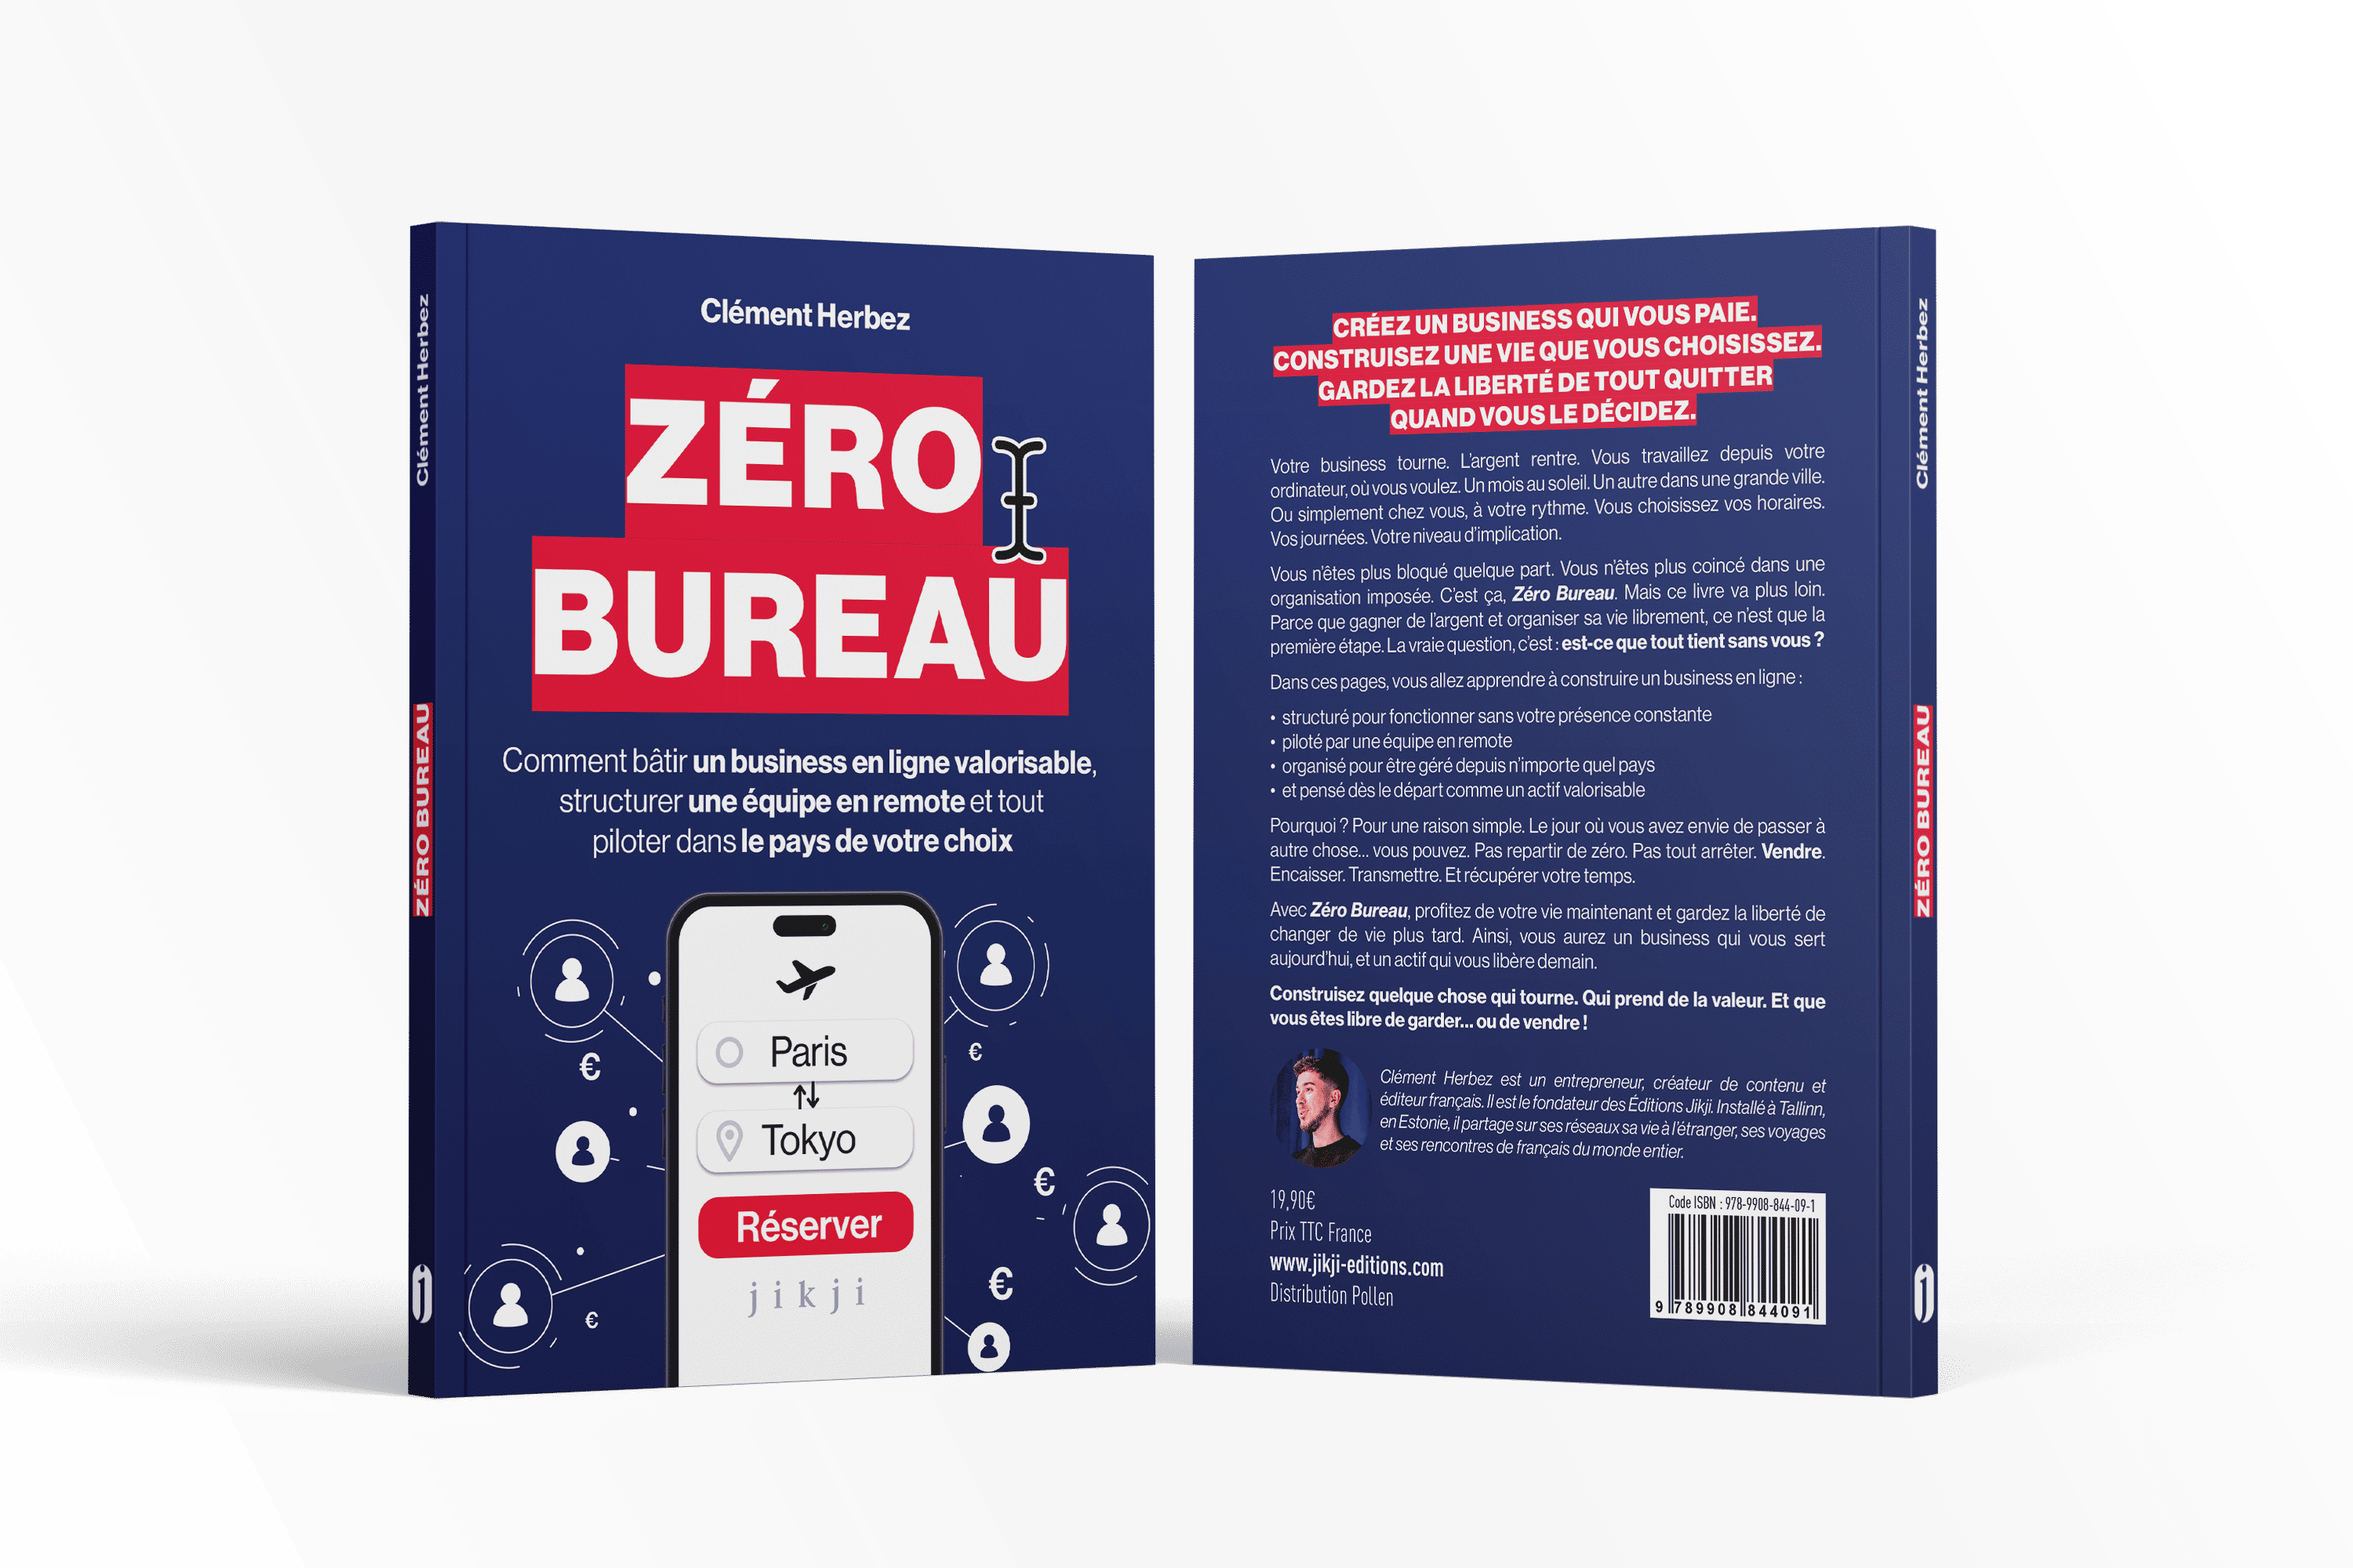
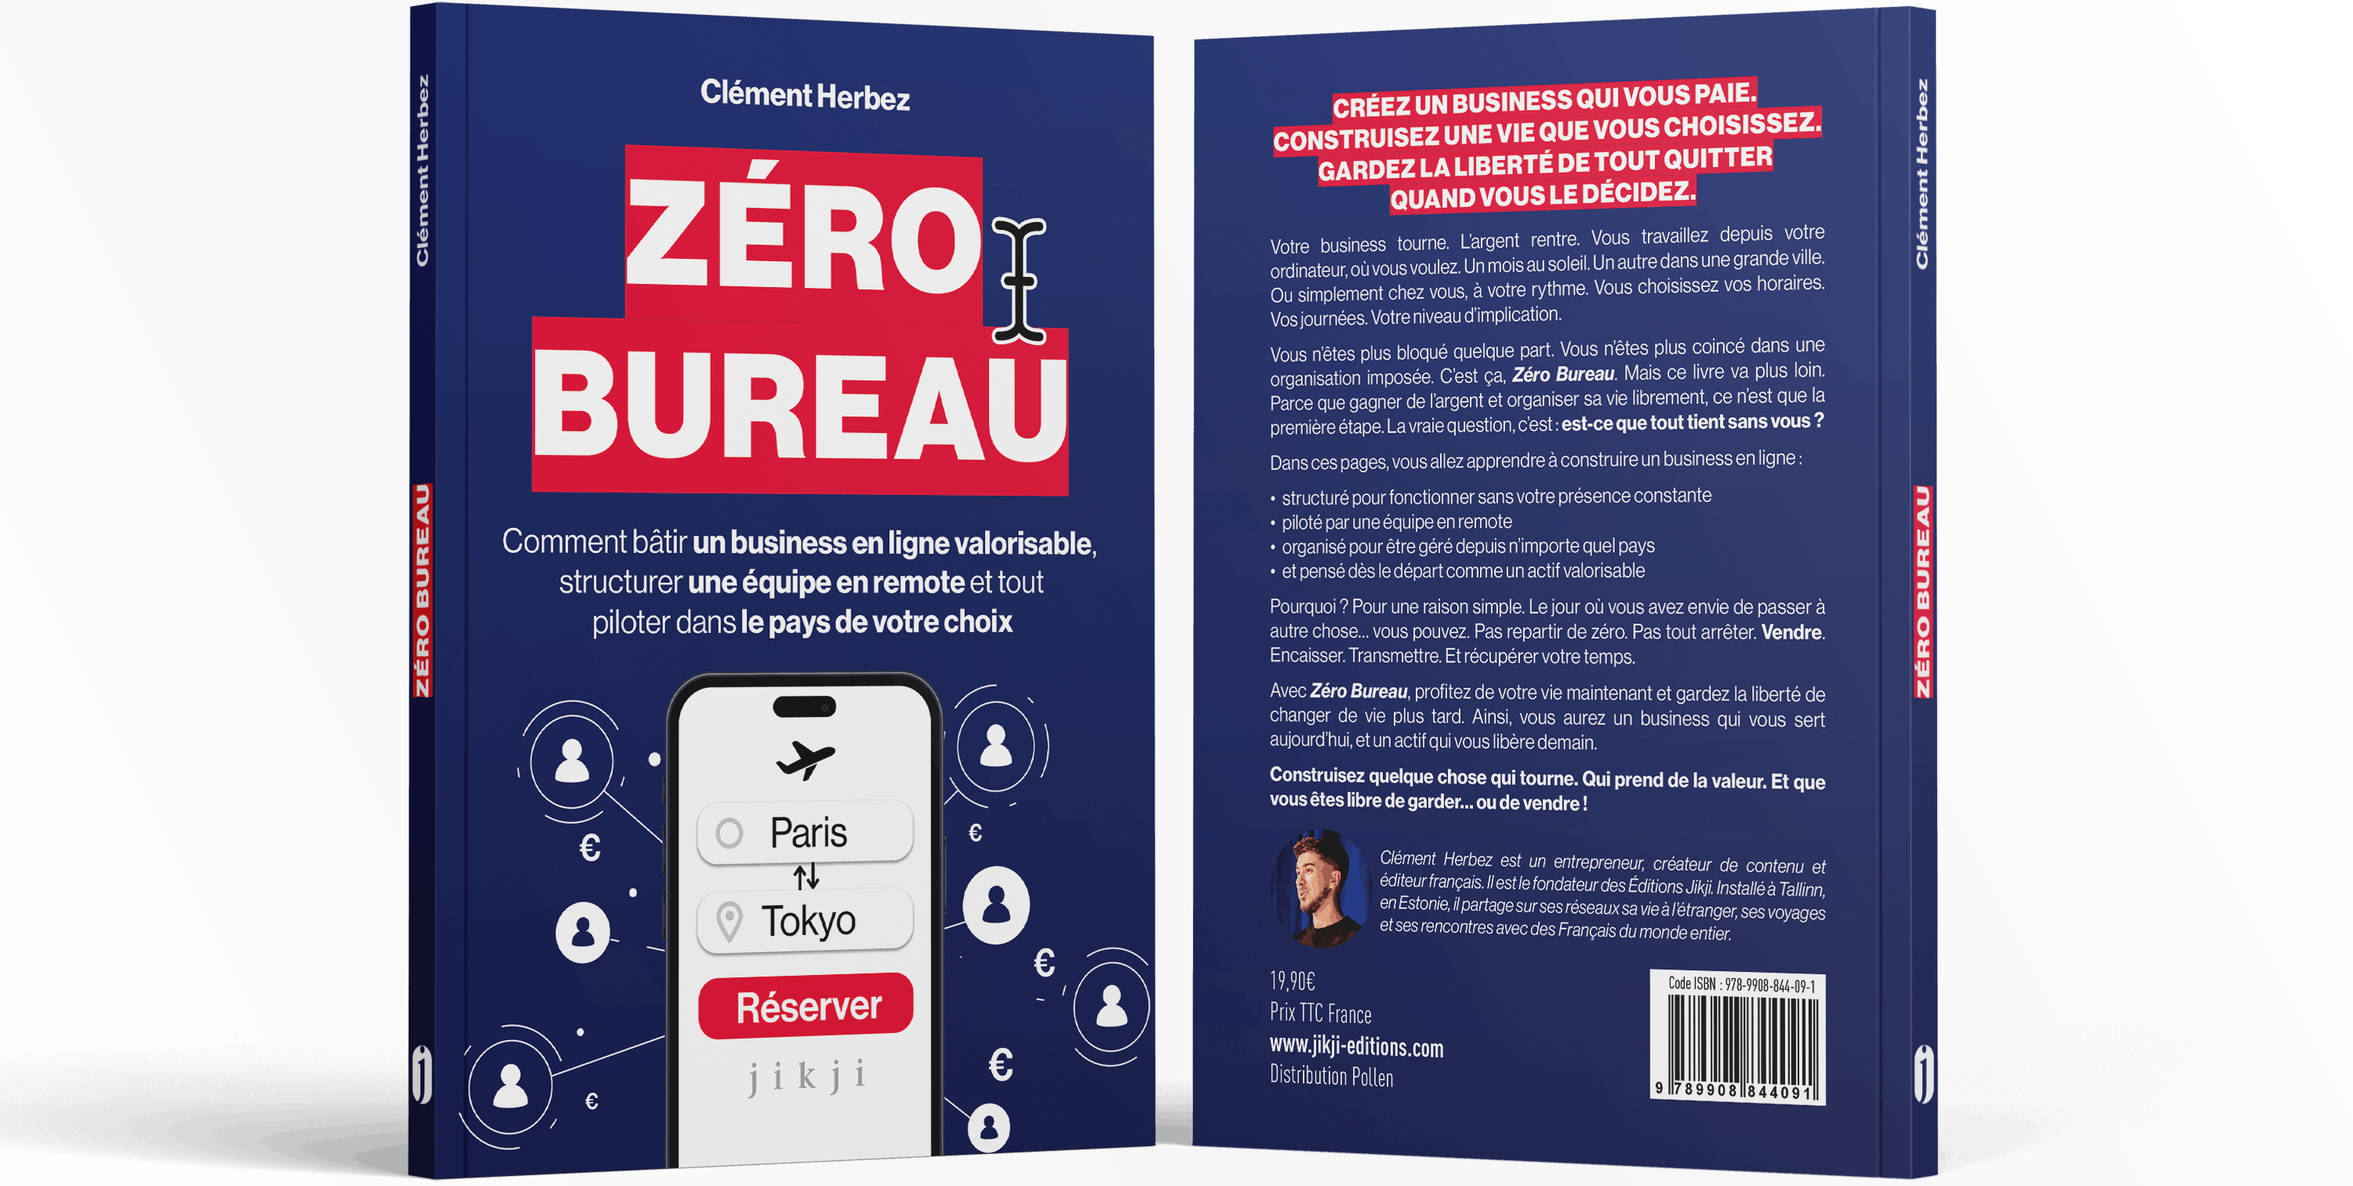
Livre : mockup recadré, titre+sous-titre sur une ligne, CTA en avant
- Mockup mis à jour (3000x1512, moins d'espace vide)
- Titre et sous-titre fusionnés en une seule ligne descriptive
- Met en évidence l'appel à l'action "Commandez votre exemplaire"

diff --git a/livre/index.html b/livre/index.html
@@ -17,7 +17,7 @@
   <meta property="og:description" content="Comment bâtir un business en ligne valorisable, structurer une équipe en remote et tout piloter dans le pays de votre choix.">
   <meta property="og:image" content="https://clementherbez.com/assets/zero_bureau_2.png">
   <meta property="og:image:width" content="3000">
-  <meta property="og:image:height" content="2000">
+  <meta property="og:image:height" content="1512">
   <meta property="og:locale" content="fr_FR">
   <meta property="og:site_name" content="Clément Herbez">
   <meta property="og:book:author" content="Clément Herbez">
@@ -123,16 +123,14 @@
               src="../assets/zero_bureau_2.png"
               alt="Zéro Bureau de Clément Herbez — couverture face et dos"
               width="3000"
-              height="2000"
+              height="1512"
               loading="eager"
               fetchpriority="high"
             >
           </div>
           <div class="hero__content reveal">
-            <span class="hero__label">Parution — 27 mai 2026</span>
-            <h1 class="hero__title">Zéro Bureau</h1>
-            <p class="hero__subtitle">Comment bâtir un business en ligne valorisable, structurer une équipe en remote et tout piloter dans le pays de votre choix.</p>
-            <p class="hero__meta">Par <strong>Clément Herbez</strong> · Éditions Jikji</p>
+            <p class="hero__oneliner">Zéro Bureau : Comment bâtir un business en ligne valorisable, structurer une équipe en remote et tout piloter dans le pays de votre choix.</p>
+            <p class="hero__meta">Par <strong>Clément Herbez</strong> · Éditions Jikji · Parution 27 mai 2026</p>
             <div class="hero__buy">
               <p class="hero__buy-intro">Commandez votre exemplaire dès maintenant</p>
               <ul class="buy-grid buy-grid--hero" role="list">

diff --git a/styles.css b/styles.css
@@ -348,14 +348,17 @@ h3 {
   border-radius: var(--radius-md);
 }
 
-.hero--centered .hero__title {
-  font-size: clamp(1.75rem, 3.5vw, 2.75rem);
+.hero__oneliner {
+  font-size: clamp(0.9375rem, 1.5vw, 1.0625rem);
+  color: var(--color-text-secondary);
+  line-height: 1.5;
+  max-width: 720px;
+  margin-inline: auto;
+  margin-bottom: var(--space-xs);
 }
 
-.hero--centered .hero__subtitle {
-  margin-inline: auto;
-  font-size: clamp(0.9375rem, 1.5vw, 1.0625rem);
-  max-width: 600px;
+.hero__oneliner strong {
+  color: var(--color-text);
 }
 
 .hero__buy {
